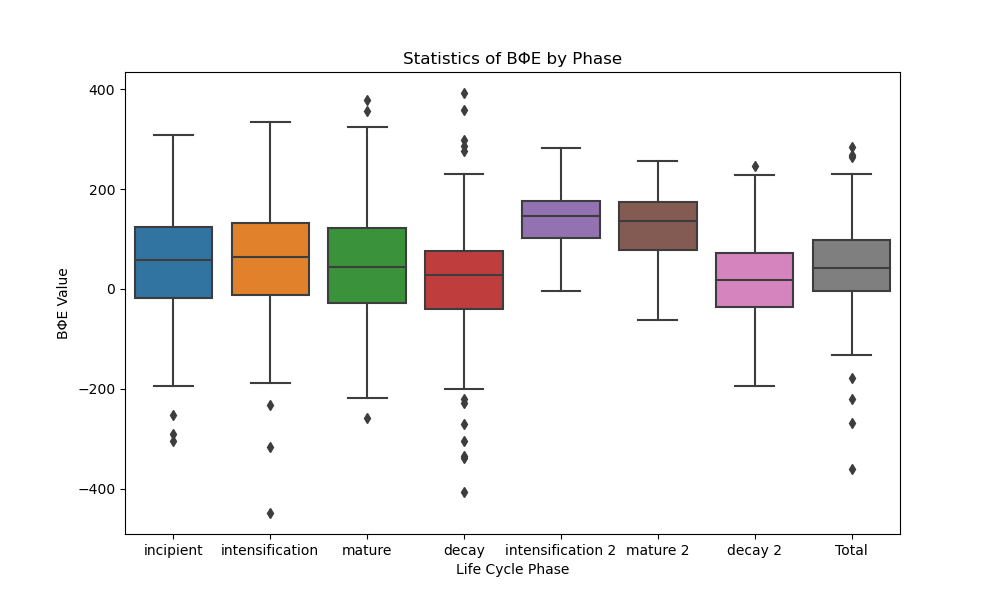
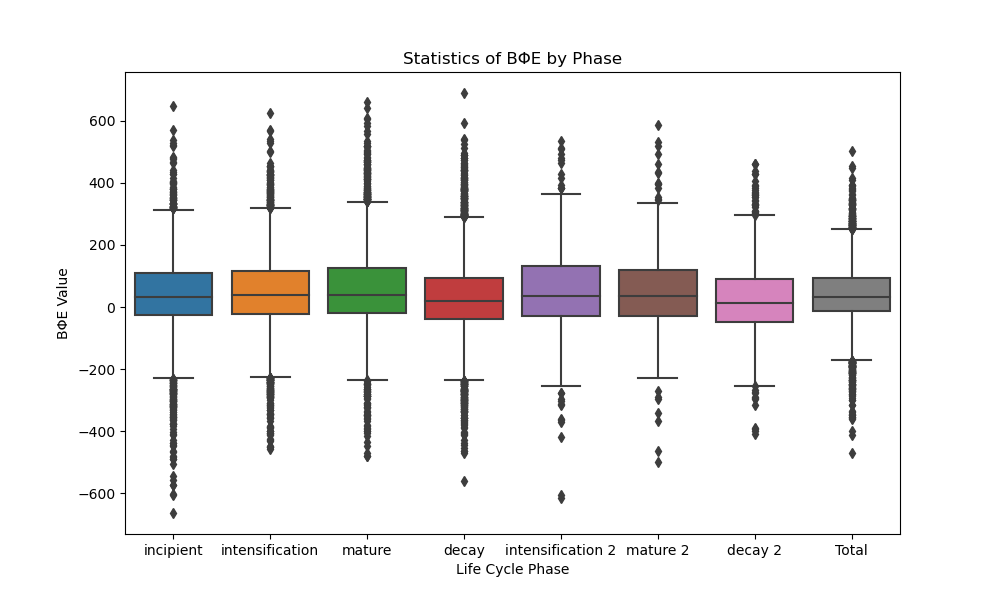
updated sample size

diff --git a/src_energetic_statistics/boxplots.py b/src_energetic_statistics/boxplots.py
@@ -6,7 +6,7 @@
 #    By: daniloceano <danilo.oceano@gmail.com>      +#+  +:+       +#+         #
 #                                                 +#+#+#+#+#+   +#+            #
 #    Created: 2024/03/02 17:31:28 by daniloceano       #+#    #+#              #
-#    Updated: 2024/03/02 18:10:18 by daniloceano      ###   ########.fr        #
+#    Updated: 2024/03/02 18:11:23 by daniloceano      ###   ########.fr        #
 #                                                                              #
 # **************************************************************************** #
 
@@ -22,7 +22,7 @@ def read_life_cycles(base_path):
     """
     systems_energetics = {}
     
-    for filename in tqdm(os.listdir(base_path)[:100], desc="Reading CSV files"):
+    for filename in tqdm(os.listdir(base_path), desc="Reading CSV files"):
         if filename.endswith('.csv'):
             file_path = os.path.join(base_path, filename)
             system_id = filename.split('_')[0]
